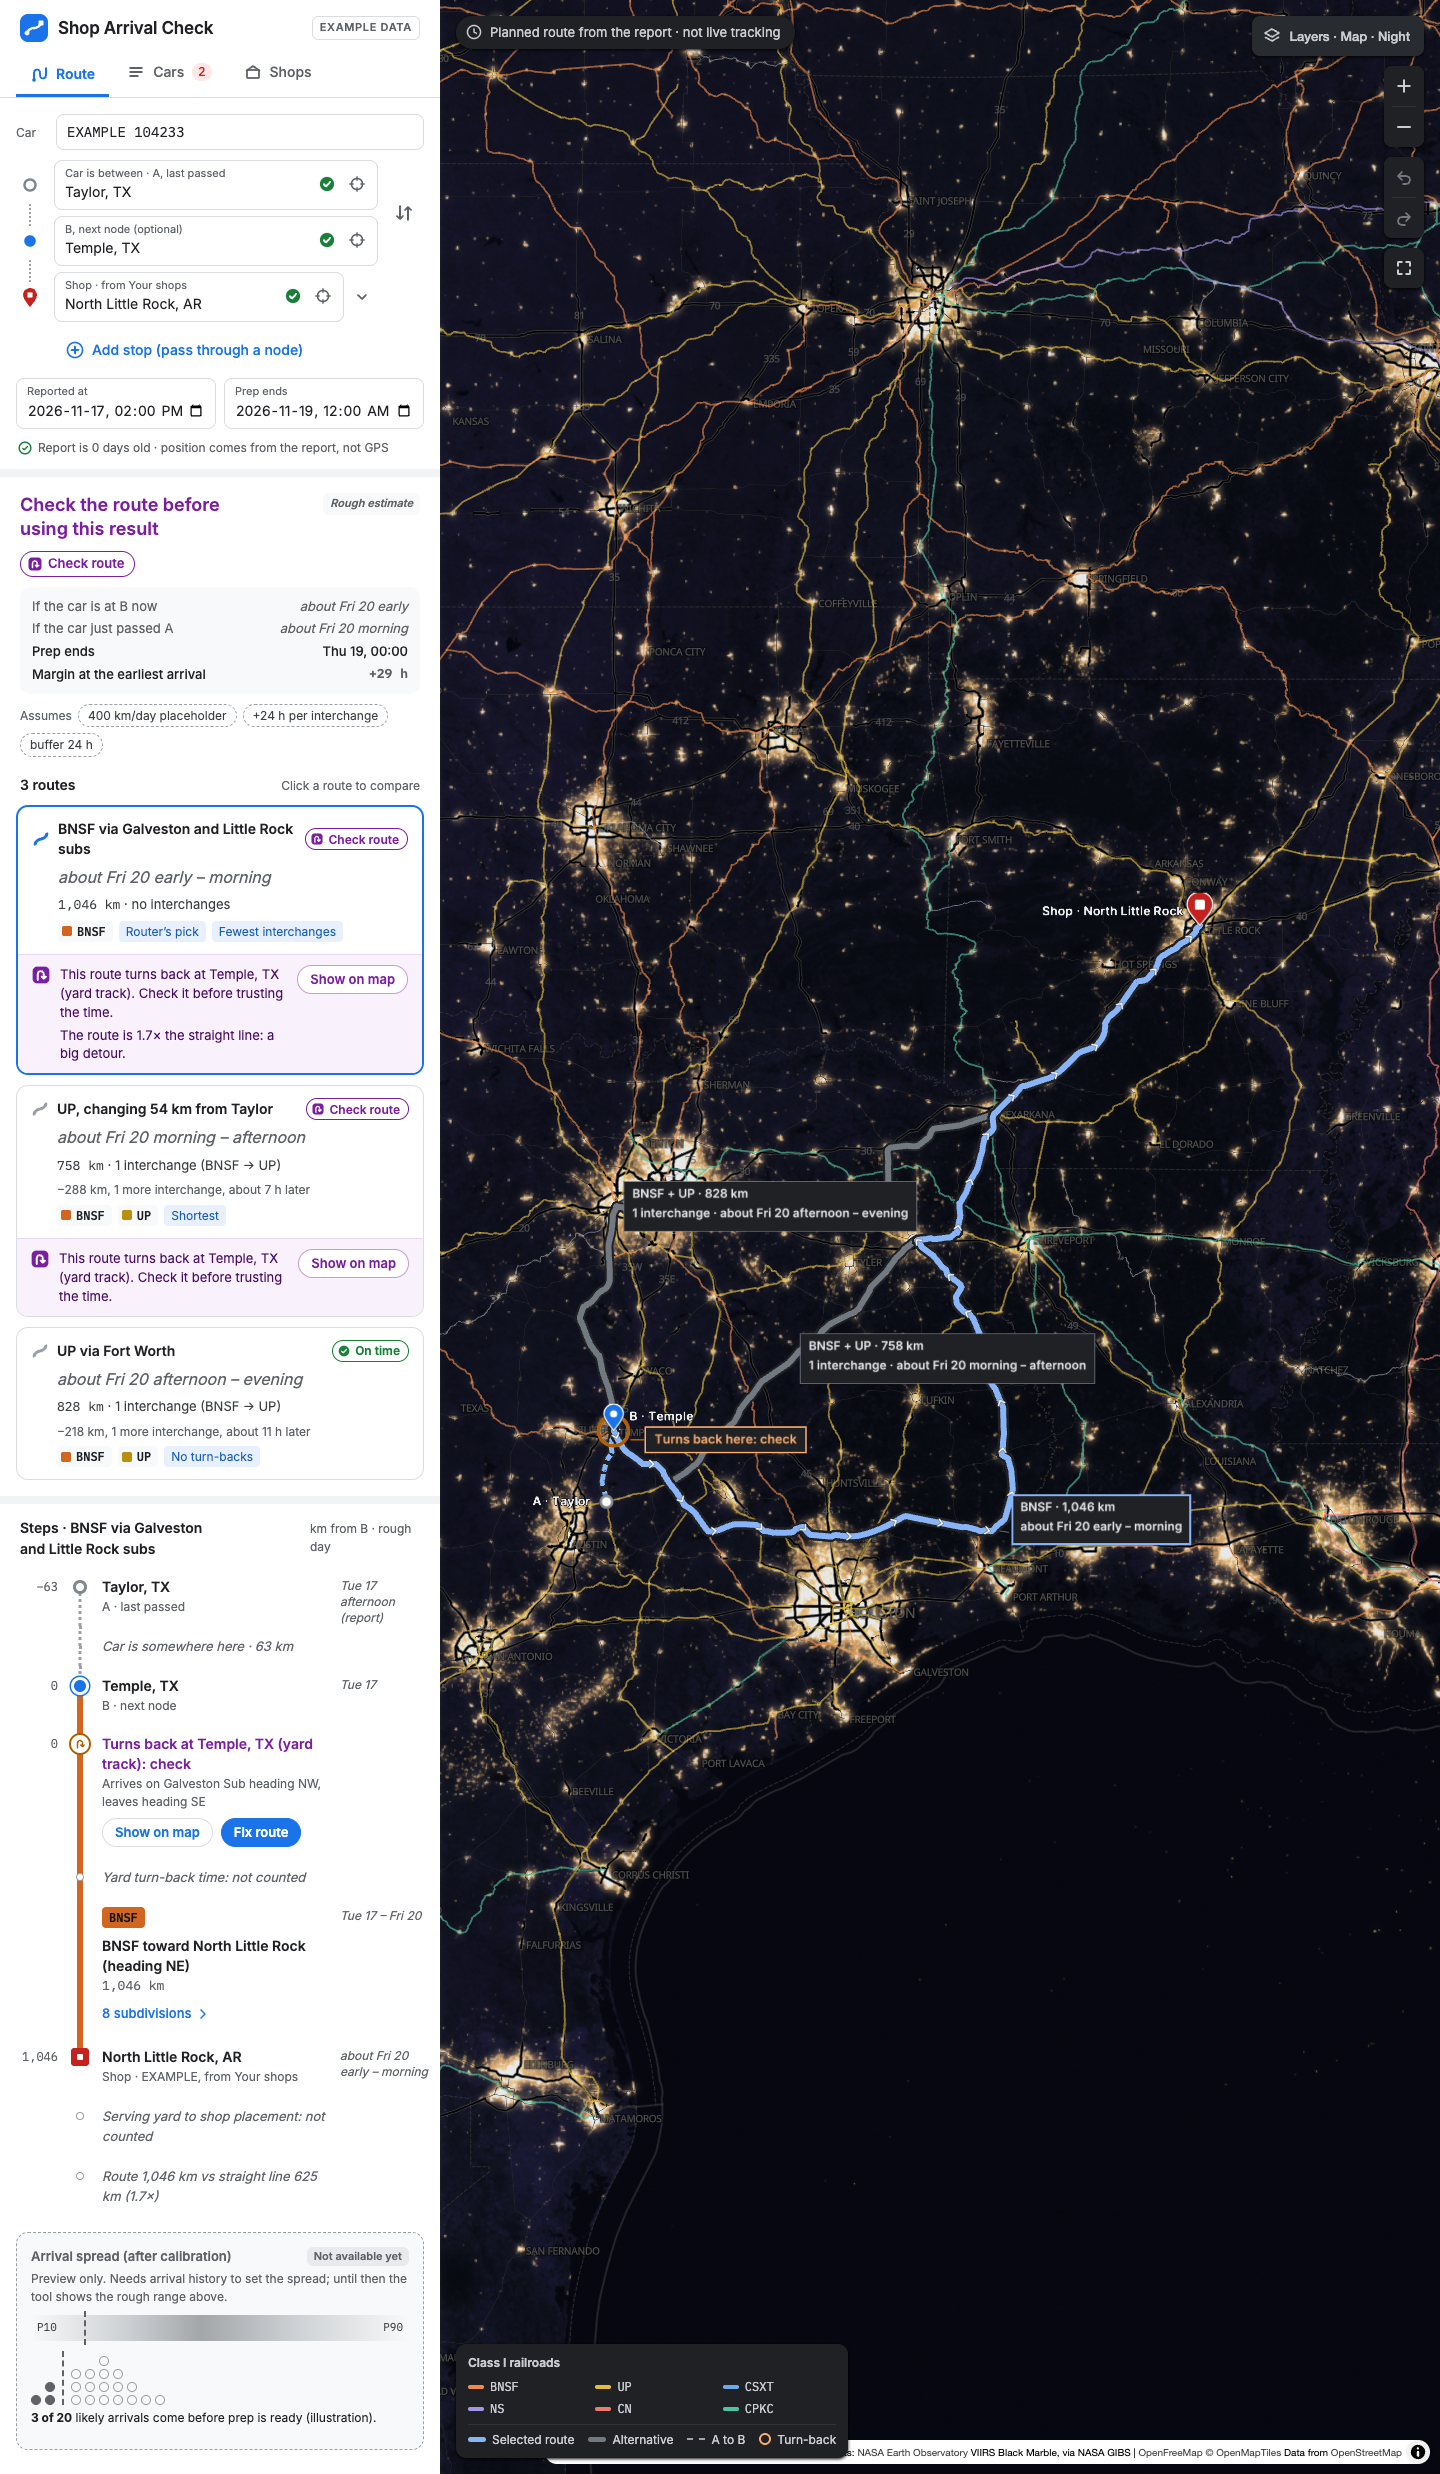
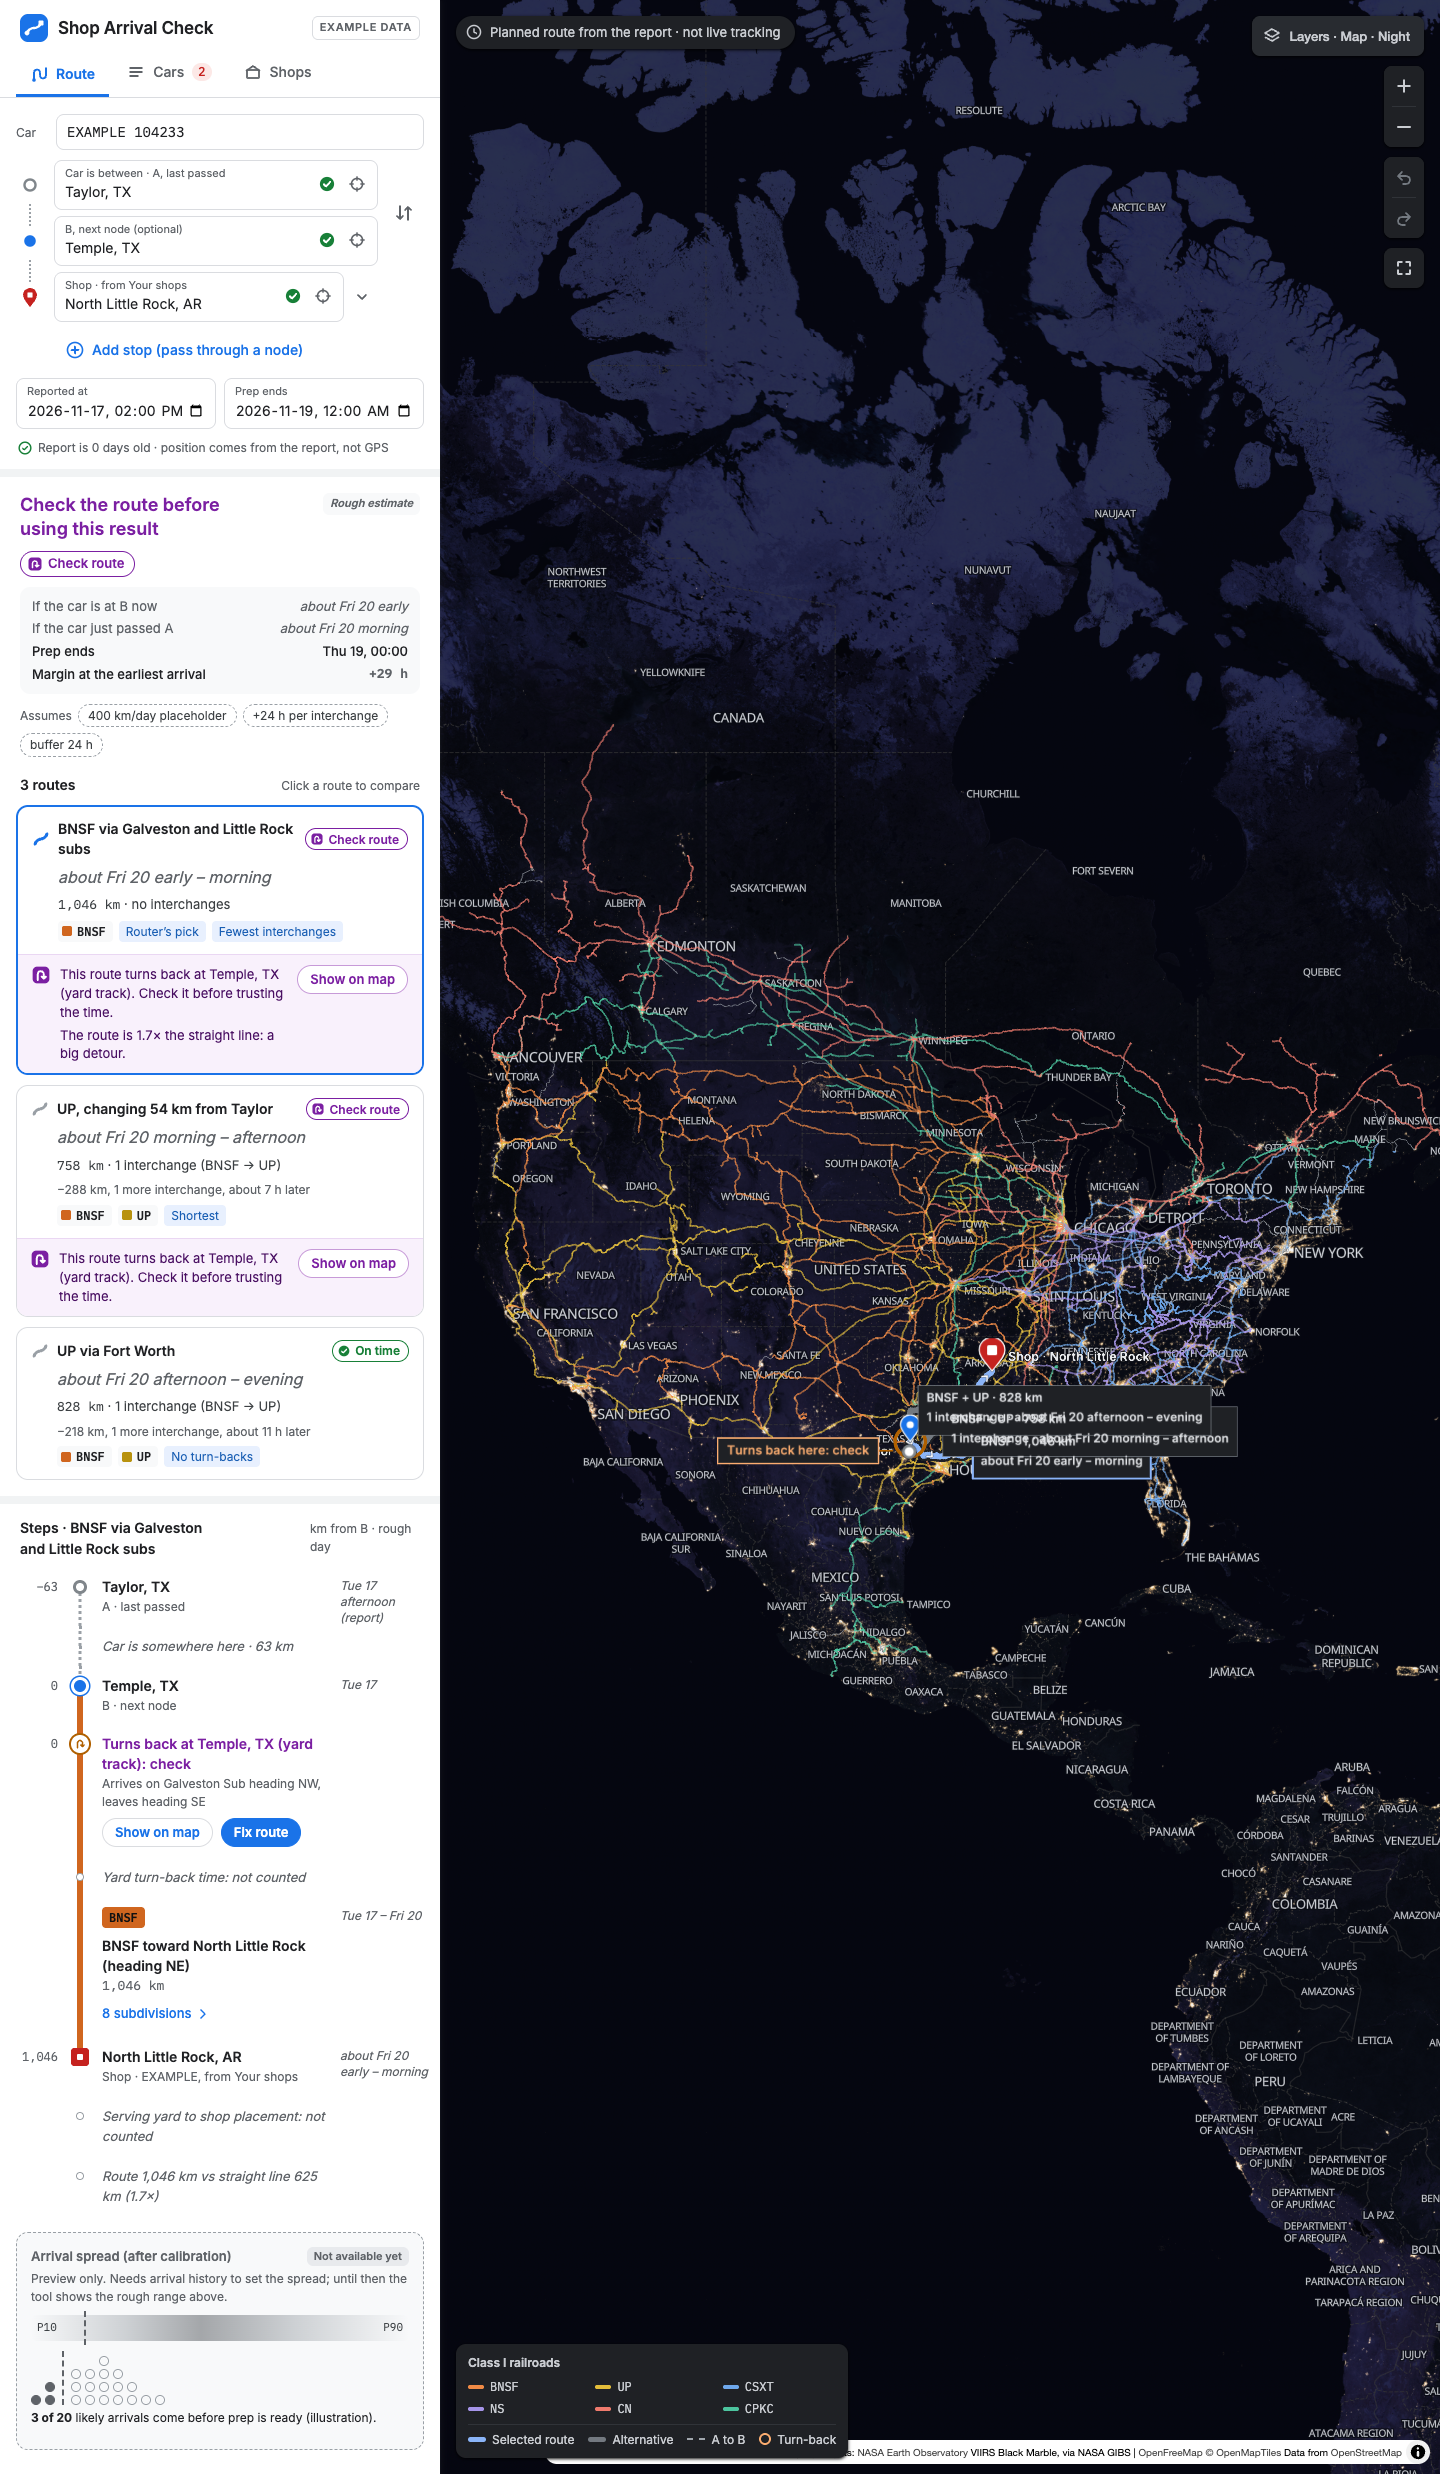
Fix map jumps on tab switch and unreadable place names at night
- One panel width on every screen (was 440/470/760 px), so switching tabs no longer resizes the map.
- FitBounds keeps the camera when the new content is already in view; Fit still always moves it.
- Place names turn bright on a dark halo whenever the night side shows, and get their own paint back by day.

diff --git a/web/map/DayNight.tsx b/web/map/DayNight.tsx
@@ -36,6 +36,36 @@ function firstLabelLayer(style: StyleSpecification): string | undefined {
   return style.layers.find((layer) => layer.type === "symbol" || layer.id === "labels")?.id;
 }
 
+/** Place names over the night side: bright text on a dark halo, so they read on black and on city lights. */
+const NIGHT_LABEL_PAINT = { "text-color": "#eef1f6", "text-halo-color": "rgba(8, 10, 18, 0.92)", "text-halo-width": 1.6, "text-halo-blur": 0.4 } as const;
+type LabelPaintKey = keyof typeof NIGHT_LABEL_PAINT;
+const LABEL_KEYS = Object.keys(NIGHT_LABEL_PAINT) as LabelPaintKey[];
+interface LabelMap {
+  getPaintProperty(layer: string, name: string): unknown;
+  setPaintProperty(layer: string, name: string, value: unknown): void;
+}
+/**
+ * Each style's own label paint, kept per map so Day can put it back without reloading the style.
+ * getStyle() returns a fresh copy each call, so the loaded style is told apart by its name and sprite.
+ */
+const savedLabelPaint = new WeakMap<LabelMap, { style: string; paint: Map<string, Partial<Record<LabelPaintKey, unknown>>> }>();
+
+/** Switches every text layer of the loaded style to the night paint, or back to its own. */
+export function paintLabels(map: LabelMap, style: StyleSpecification, night: boolean): void {
+  const styleKey = `${style.name ?? ""}|${JSON.stringify(style.sprite ?? "")}`;
+  let saved = savedLabelPaint.get(map);
+  if (!saved || saved.style !== styleKey) {
+    saved = { style: styleKey, paint: new Map() };
+    savedLabelPaint.set(map, saved);
+  }
+  for (const layer of style.layers) {
+    if (layer.type !== "symbol" || !(layer.layout && "text-field" in layer.layout)) continue;
+    if (!saved.paint.has(layer.id)) saved.paint.set(layer.id, Object.fromEntries(LABEL_KEYS.map((key) => [key, map.getPaintProperty(layer.id, key)])));
+    const own = saved.paint.get(layer.id) ?? {};
+    for (const key of LABEL_KEYS) map.setPaintProperty(layer.id, key, night ? NIGHT_LABEL_PAINT[key] : own[key]);
+  }
+}
+
 /**
  * Managed by hand rather than as a react-map-gl <Layer>: its place in the stack depends on the
  * loaded style's own layer ids, which change with every basemap switch.
@@ -68,6 +98,7 @@ export function NightLights({ mode, now, satellite }: { mode: NightTileMode | "o
         map.addLayer(layer, firstLabelLayer(style));
       }
       map.setLayoutProperty(LIGHTS_ID, "visibility", shown ? "visible" : "none");
+      paintLabels(map, style, shown);
       if (shown) map.setPaintProperty(LIGHTS_ID, "raster-opacity", lightsOpacity(opacityMode, satellite));
     };
     ensure();

diff --git a/web/map/FitBounds.tsx b/web/map/FitBounds.tsx
@@ -16,22 +16,35 @@ function fitOptions(mapWidth: number, leftInset: number, topInset: number) {
   return { padding: { top: Math.max(72, topInset), bottom: 84, left, right }, maxZoom: 11 };
 }
 
+/** True when `bounds` lie wholly inside the visible map. */
+export function isInView(view: { getWest(): number; getSouth(): number; getEast(): number; getNorth(): number }, bounds: Bounds): boolean {
+  const [west, south, east, north] = bounds;
+  return west >= view.getWest() && east <= view.getEast() && south >= view.getSouth() && north <= view.getNorth();
+}
+
 /**
- * Moves the camera to `bounds` whenever they change, and again whenever `nonce` changes ("Fit whole
+ * Moves the camera to `bounds` whenever they change and are not already in view, and again whenever `nonce` changes ("Fit whole
  * route"). Renders nothing; must be a child of the map.
  */
 export function FitBounds(props: { bounds: Bounds | null; nonce?: number; leftInset?: number; topInset?: number }) {
   const { bounds, nonce = 0, leftInset = 0, topInset = 0 } = props;
   const map = useMap().current;
   const mounted = useRef(false);
+  const lastNonce = useRef(nonce);
   const key = bounds?.join();
 
   useEffect(() => {
     // A route that is already there when the map opens is simply where the map starts.
-    const jump = !mounted.current || matchMedia("(prefers-reduced-motion: reduce)").matches;
+    const first = !mounted.current;
+    const jump = first || matchMedia("(prefers-reduced-motion: reduce)").matches;
     mounted.current = true;
+    const asked = nonce !== lastNonce.current;
+    lastNonce.current = nonce;
     if (!map || !bounds) return;
     const [west, south, east, north] = bounds;
+    // Switching tabs or route cards must not zoom the map back and forth: if everything is already
+    // on screen the camera stays where the user put it. "Fit whole route" always moves it.
+    if (!first && !asked && isInView(map.getBounds(), bounds)) return;
     const options = fitOptions(map.getContainer().clientWidth, leftInset, topInset);
     map.fitBounds([[west, south], [east, north]], { ...options, duration: jump ? 0 : 800 });
     // Keyed on the numbers, not the array: a re-check that lands on the same route must not

diff --git a/web/map/nightLabels.test.ts b/web/map/nightLabels.test.ts
@@ -1,0 +1,29 @@
+import type { StyleSpecification } from "maplibre-gl";
+import { describe, expect, it } from "vitest";
+import { paintLabels } from "./DayNight.tsx";
+
+function fakeMap() {
+  const paint = new Map<string, unknown>([["city:text-color", "#333"], ["city:text-halo-color", "#fff"]]);
+  return {
+    paint,
+    getPaintProperty: (layer: string, name: string) => paint.get(`${layer}:${name}`),
+    setPaintProperty: (layer: string, name: string, value: unknown) => void paint.set(`${layer}:${name}`, value),
+  };
+}
+const style = { version: 8, name: "liberty", sources: {}, layers: [
+  { id: "city", type: "symbol", source: "x", layout: { "text-field": "{name}" } },
+  { id: "icons", type: "symbol", source: "x", layout: { "icon-image": "dot" } },
+] } as unknown as StyleSpecification;
+
+describe("place names at night", () => {
+  it("turns text bright on a dark halo at night and puts the style's own paint back by day", () => {
+    const map = fakeMap();
+    paintLabels(map, style, true);
+    expect(map.paint.get("city:text-color")).toBe("#eef1f6");
+    expect(map.paint.has("icons:text-color")).toBe(false);
+    paintLabels(map, style, true);
+    paintLabels(map, style, false);
+    expect(map.paint.get("city:text-color")).toBe("#333");
+    expect(map.paint.get("city:text-halo-color")).toBe("#fff");
+  });
+});

diff --git a/web/map/FitBounds.test.ts b/web/map/FitBounds.test.ts
@@ -1,0 +1,15 @@
+import { describe, expect, it } from "vitest";
+import type { Bounds } from "../../shared/geo.ts";
+import { isInView } from "./FitBounds.tsx";
+
+const view = (west: number, south: number, east: number, north: number) => ({ getWest: () => west, getSouth: () => south, getEast: () => east, getNorth: () => north });
+
+describe("isInView", () => {
+  it("keeps the camera when the new content is already on screen", () => {
+    expect(isInView(view(-110, 25, -80, 45), [-100, 30, -90, 40] as Bounds)).toBe(true);
+  });
+  it("moves the camera when any part is off screen", () => {
+    expect(isInView(view(-110, 25, -80, 45), [-100, 30, -75, 40] as Bounds)).toBe(false);
+    expect(isInView(view(-110, 25, -80, 45), [-100, 20, -90, 40] as Bounds)).toBe(false);
+  });
+});

diff --git a/web/styles.css b/web/styles.css
@@ -326,12 +326,7 @@ kbd {
   position: relative;
   z-index: 2;
 }
-.app[data-screen="cars"] {
-  --panel-w: 470px;
-}
-.app[data-screen="shops"] {
-  --panel-w: 760px;
-}
+/* One panel width on every screen: a tab switch must not resize the map under the user. */
 .app[data-screen="shops"] .panel {
   background: var(--bg);
 }
